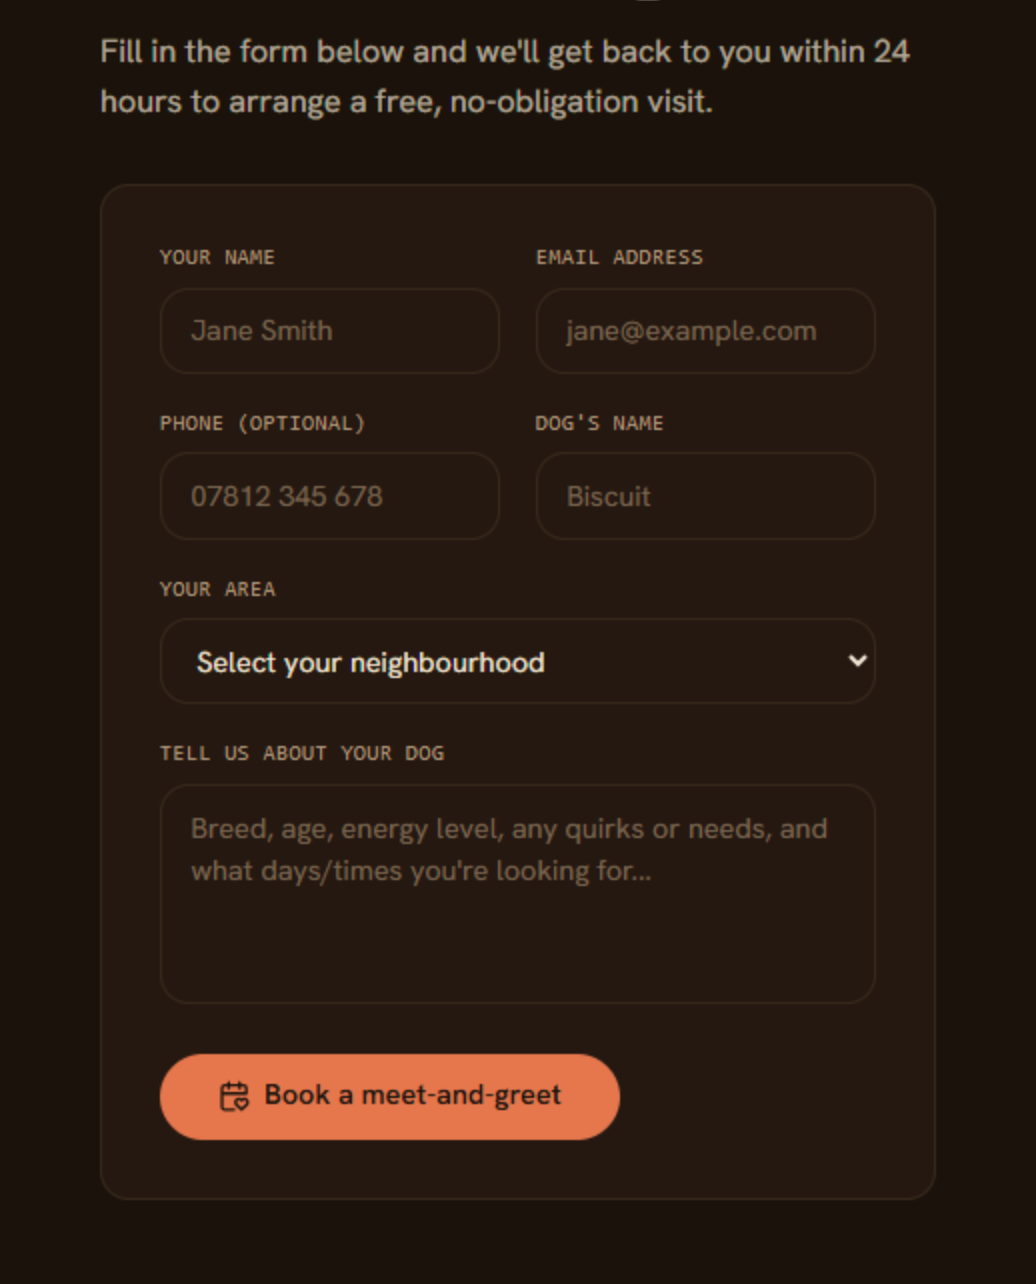
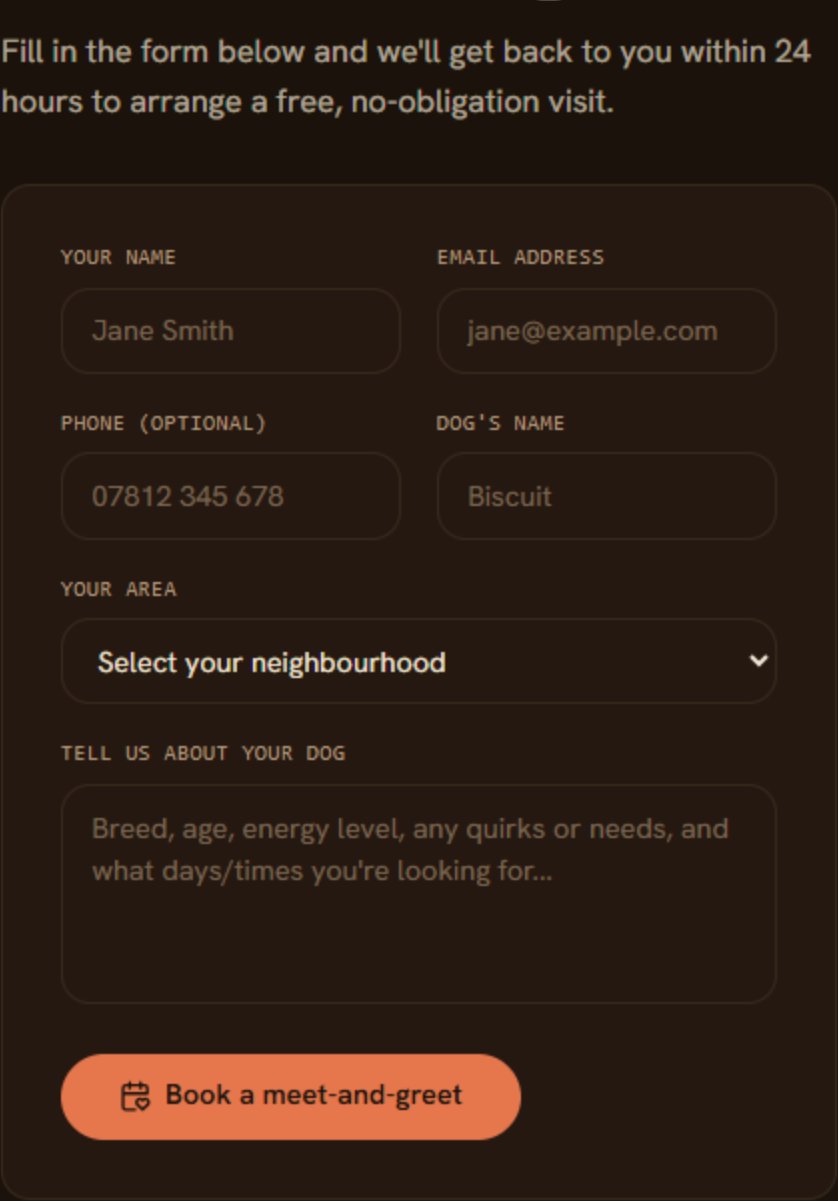
Done with V1 of lander

diff --git a/public/index.html b/public/index.html
@@ -1104,15 +1104,15 @@ window.__aiwaLoaderFailsafe = window.setTimeout(function () {
         </div>
       </article>
 
-      <!-- 3 · Run your business — portrait booking-form visual -->
+      <!-- 3 · Run your business — booking-form visual -->
       <article class="use-card" data-blur-child data-spring>
-        <figure class="use-card__visual use-card__visual--product use-card__visual--portrait">
+        <figure class="use-card__visual use-card__visual--product">
           <span class="use-card__glow use-card__glow--warm" aria-hidden="true"></span>
           <img
-            src="/images/visuals/Run your business.png?v=2"
+            src="/images/visuals/Run your business.png?v=3"
             alt="Custom booking form for a pet-services business built with AIWA"
-            width="1036"
-            height="1284"
+            width="838"
+            height="1201"
             loading="lazy"
             decoding="async"
           />

diff --git a/public/css/site.css b/public/css/site.css
@@ -1932,12 +1932,6 @@ html.is-idea-scrub .hero-media__scrim {
   position: absolute;
   inset: 0;
 }
-/* Portrait product shots (e.g. Run your business form) — show the full UI
-   instead of side-cropping a tall asset in the landscape card well. */
-.use-card__visual--portrait img {
-  object-fit: contain;
-  object-position: center top;
-}
 
 /* Soft Lovable-style color wash behind isolated fragments */
 .use-card__glow {

diff --git a/public/features/index.html b/public/features/index.html
@@ -73,7 +73,7 @@
   </div>
 </section>
 
-<nav class="feat-jump" data-toc aria-label="On this page">
+<nav class="feat-jump" data-toc aria-label="On this page" hidden>
   <div class="shell shell--wide">
     <ol class="feat-jump__list">
       <li><a href="#workflow">Workflow</a></li>

diff --git a/EDIT-LOG.md b/EDIT-LOG.md
@@ -4,6 +4,13 @@ Running record of design/implementation changes made while owning the lander dir
 
 ---
 
+## 2026-09-10 — Features: hide jump nav
+
+- Hid the sticky Workflow / Modes / Memory / Backend / Connect / Ship jump bar (`.feat-jump`) on the features page.
+- Files: `public/features/index.html`.
+
+---
+
 ## 2026-09-10 — Footer newsletter feedback (frontend)
 
 - Apply flips to Thank you (nav-style) and disables until reload; duplicate emails show a quiet status under the form. `subscribeNewsletter` in `public/js/newsletter.js` is a localStorage stub for engineers to replace with a real POST (same return shape). Wired from `main.js`, `page.js`, and aiwa22.
